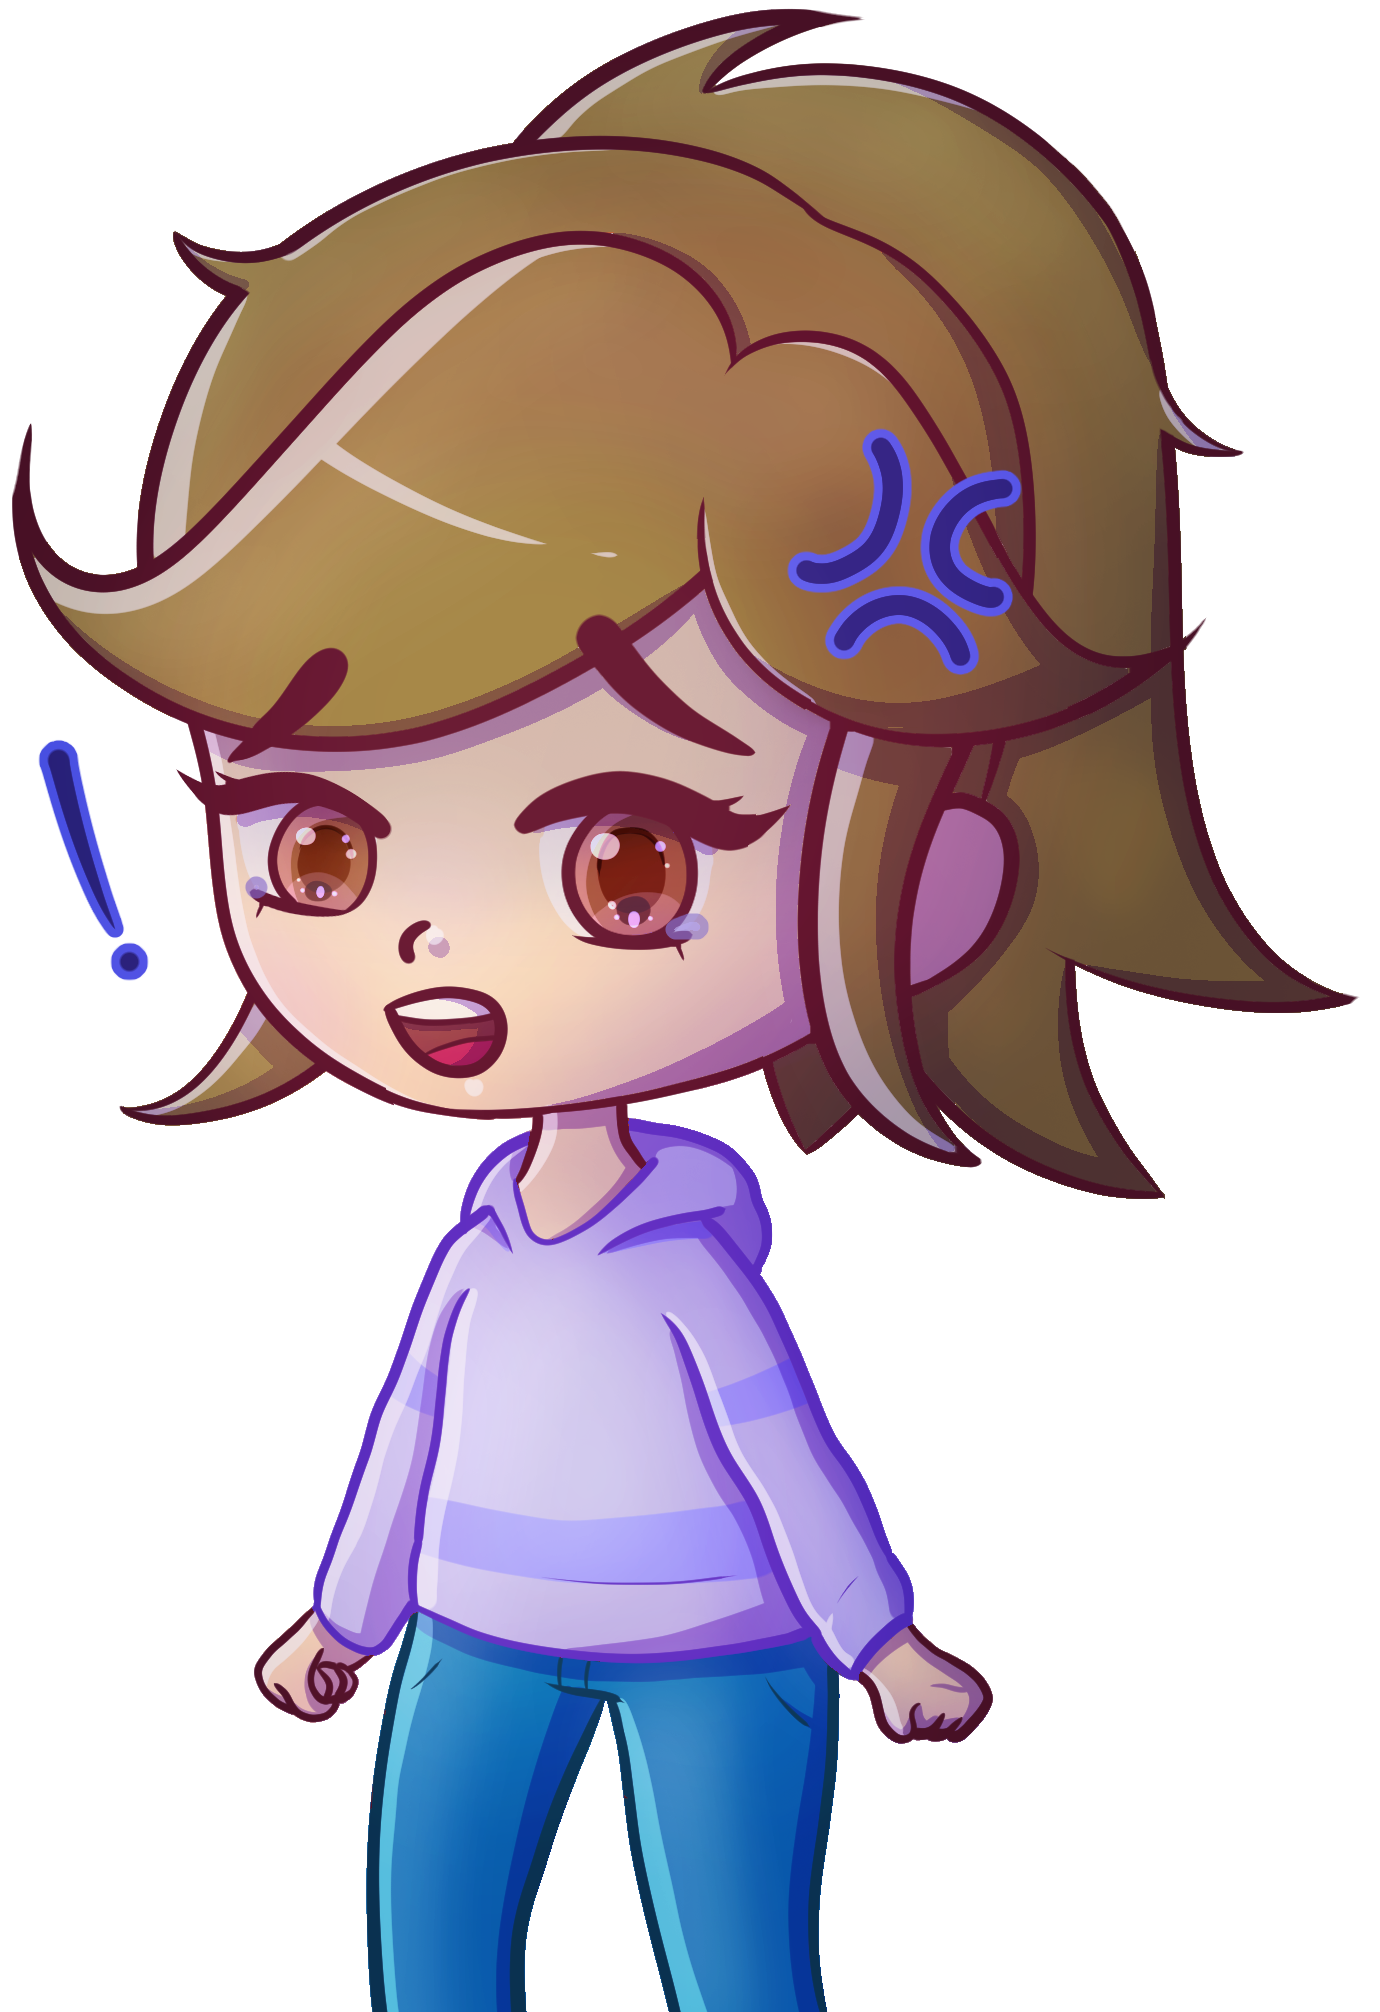
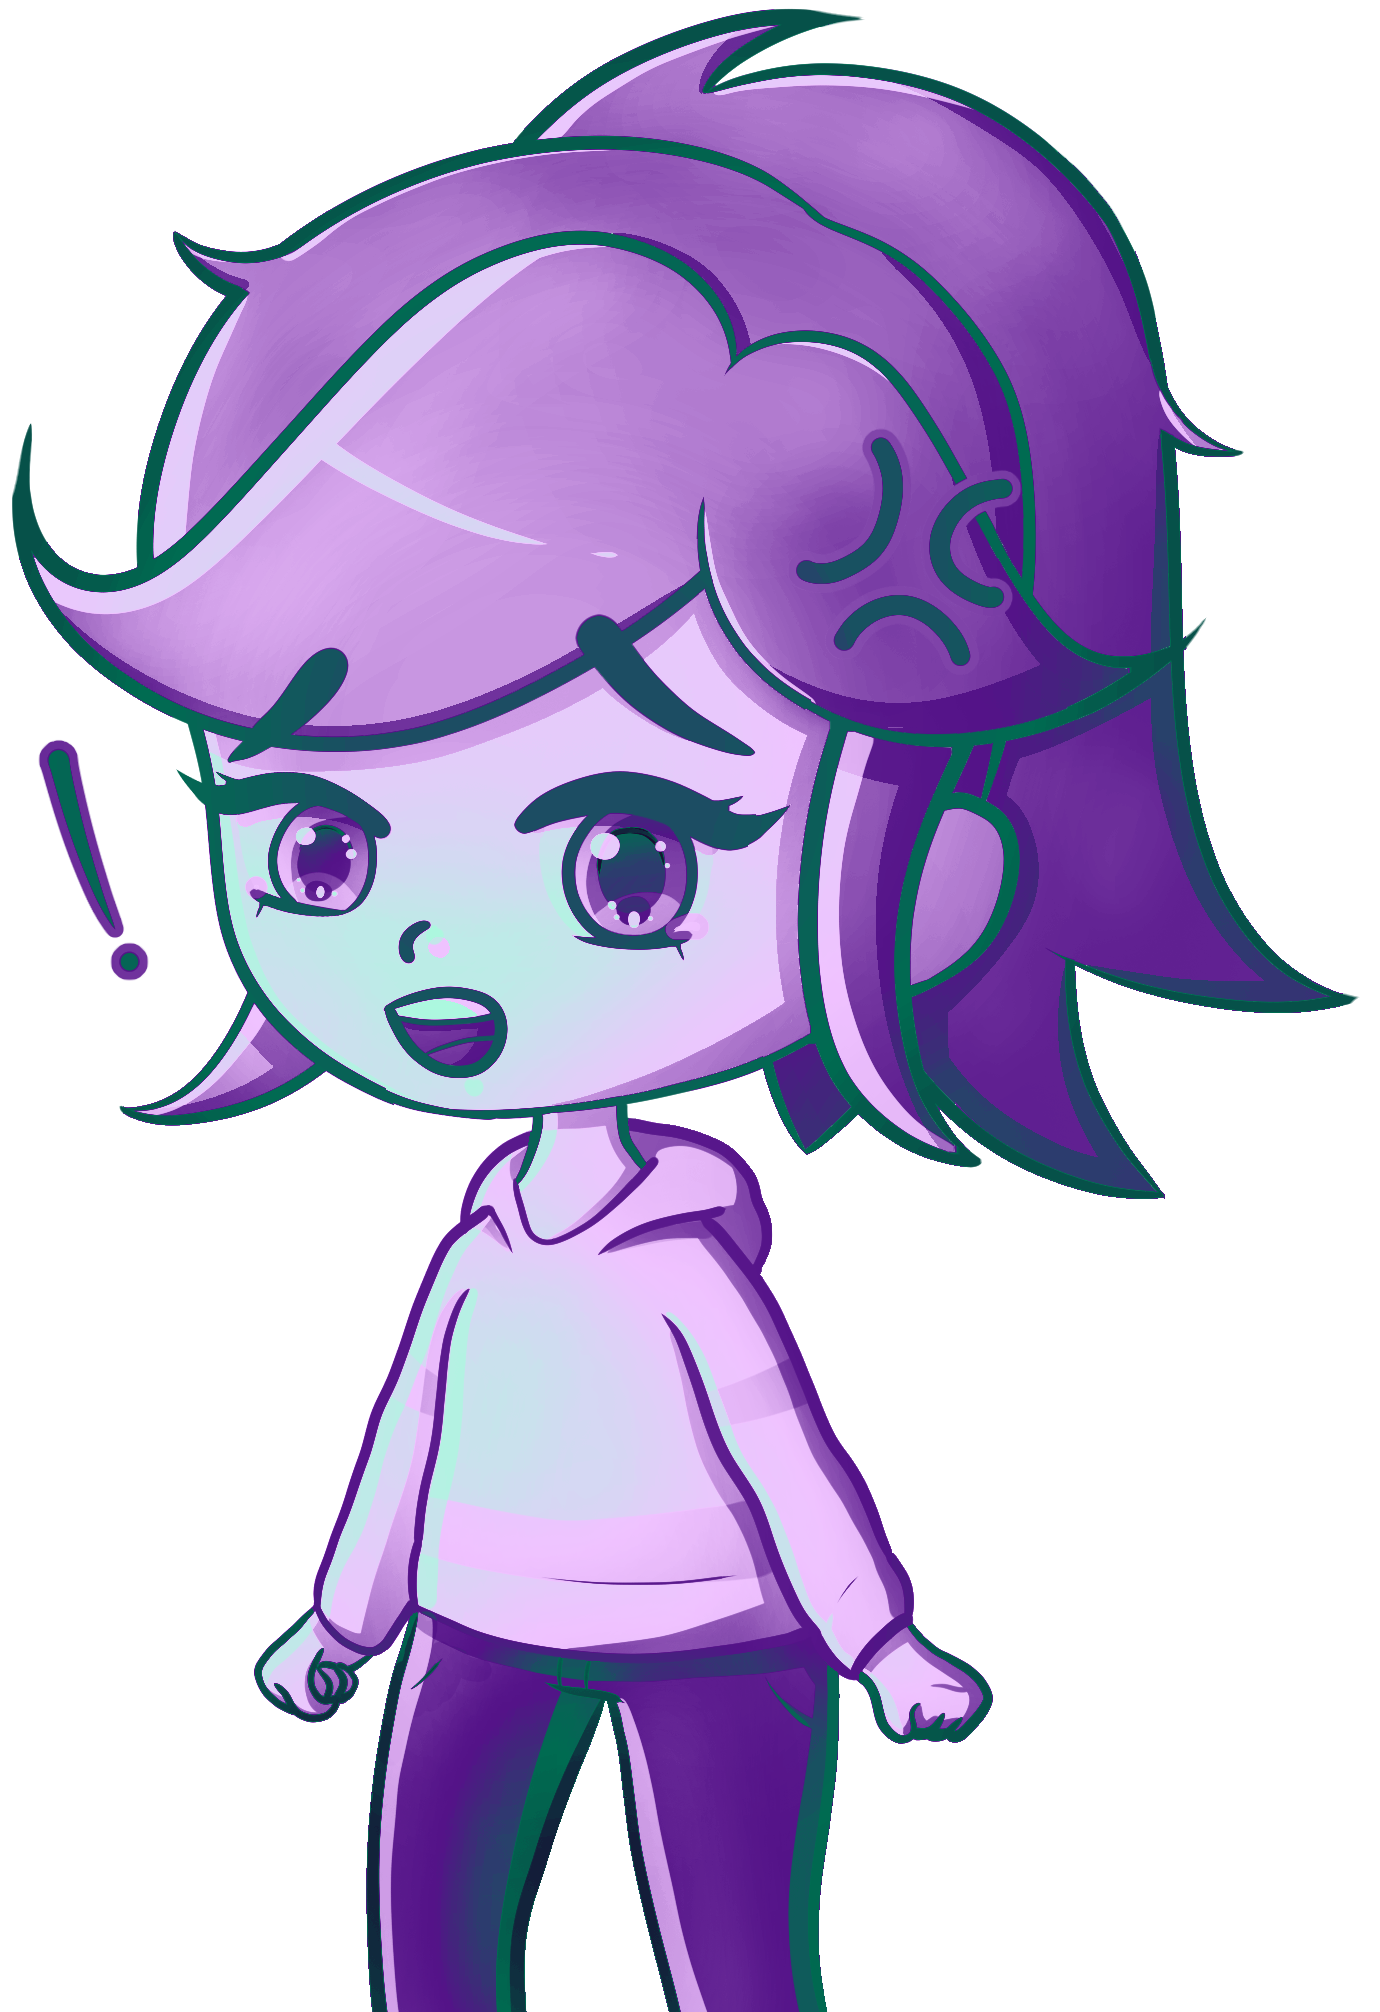
upd2

diff --git a/assets/js/main.js b/assets/js/main.js
@@ -79,12 +79,14 @@ function toggleTheme() {
   if (theme.getAttribute('href') == 'assets/css/style.css') {
       theme.setAttribute('href', 'assets/css/dark-style.css');
       opvideo.setAttribute('src', 'assets/video/dark-opening.mp4');
-      video.setAttribute('src', 'assets/video/dark-iddle.mp4');
+      // video.setAttribute('src', 'assets/video/dark-iddle.mp4');
+      video.setAttribute('src', 'assets/img/ocs-d.png');
       logo.setAttribute('src', 'assets/img/titre_dark.png');
   } else {
       theme.setAttribute('href', 'assets/css/style.css');
       opvideo.setAttribute('src', 'assets/video/light-opening.mp4');
-      video.setAttribute('src', 'assets/video/light-iddle.mp4');
+      //video.setAttribute('src', 'assets/video/light-iddle.mp4');
+      video.setAttribute('src', 'assets/img/ocs.png');
       logo.setAttribute('src', 'assets/img/titre_.png');
   }
 
@@ -111,12 +113,12 @@ document.addEventListener("DOMContentLoaded", function() {
       if (savedTheme.includes("dark")) {
           theme.setAttribute('href', 'assets/css/dark-style.css');
           firstVideo.setAttribute('src', 'assets/video/dark-opening.mp4');
-          secondVideo.setAttribute('src', 'assets/video/dark-iddle.mp4');
+          secondVideo.setAttribute('src', 'assets/img/ocs-d.png');
           l_logo.setAttribute('src', 'assets/img/titre_dark.png');
       } else {
           theme.setAttribute('href', 'assets/css/style.css');
           firstVideo.setAttribute('src', 'assets/video/light-opening.mp4');
-          secondVideo.setAttribute('src', 'assets/video/light-iddle.mp4');
+          secondVideo.setAttribute('src', 'assets/img/ocs.png');
           l_logo.setAttribute('src', 'assets/img/titre_.png');
       }
   } else {
@@ -125,12 +127,12 @@ document.addEventListener("DOMContentLoaded", function() {
       if (isDarkMode) {
           theme.setAttribute('href', 'assets/css/dark-style.css');
           firstVideo.setAttribute('src', 'assets/video/dark-opening.mp4');
-          secondVideo.setAttribute('src', 'assets/video/dark-iddle.mp4');
+          secondVideo.setAttribute('src', 'assets/img/ocs-d.png');
           l_logo.setAttribute('src', 'assets/img/titre_dark.png');
       } else {
           theme.setAttribute('href', 'assets/css/style.css');
           firstVideo.setAttribute('src', 'assets/video/light-opening.mp4');
-          secondVideo.setAttribute('src', 'assets/video/light-iddle.mp4');
+          secondVideo.setAttribute('src', 'assets/img/ocs.png');
           l_logo.setAttribute('src', 'assets/img/titre_.png');
       }
   }
@@ -150,6 +152,9 @@ document.addEventListener("DOMContentLoaded", function() {
   // Masquer le loader avec une transition en douceur
   loader.style.opacity = "1";
   loader.style.transition = "opacity 0.5s ease";
+
+  secondVideo.style.opacity = "1";
+  secondVideo.style.transition = "opacity 0.5s ease";
 
   firstVideo.pause(); // S'assurer que la première vidéo est mise en pause au départ
 

diff --git a/assets/css/dark-style.css b/assets/css/dark-style.css
@@ -184,23 +184,15 @@ header video {
 }
 
 /* Positionnement du logo au quart de la largeur de l'écran */
-#logo {
-  position: absolute;
-  top: 50%; /* Centrer verticalement */
-  left: 25%; /* Positionner le logo à 25% de la largeur de l'écran */
-  transform: translateY(-50%); /* Centrer verticalement par rapport à son propre centre */
-  font-size: 2rem;
-  font-weight: bold;
-  color: var(--color-text);
-  z-index: 10;
-  opacity: 0; /* Le logo est caché au départ */
-  transition: opacity 1s ease; /* Ajout d'une transition pour le fondu */
-}
+  #logo, #second-video {
+    opacity: 0; /* Le logo est caché au départ */
+    transition: opacity 1s ease; /* Ajout d'une transition pour le fondu */
+  }
 
-/* Effet de fondu pour faire apparaître le logo */
-#logo.show {
-  opacity: 1; /* Afficher le logo en fondu */
-}
+  /* Effet de fondu pour faire apparaître le logo */
+  #logo.show, #second-video {
+    opacity: 1; /* Afficher le logo en fondu */
+  }
 
 /* Sections */
 section {

diff --git a/assets/css/style.css b/assets/css/style.css
@@ -174,13 +174,13 @@
   }
 
   /* Positionnement du logo au quart de la largeur de l'écran */
-  #logo {
+  #logo, #second-video {
     opacity: 0; /* Le logo est caché au départ */
     transition: opacity 1s ease; /* Ajout d'une transition pour le fondu */
   }
 
   /* Effet de fondu pour faire apparaître le logo */
-  #logo.show {
+  #logo.show, #second-video {
     opacity: 1; /* Afficher le logo en fondu */
   }
 
@@ -500,7 +500,7 @@
   /* ---------------------------------------- COMPETENCES + SKILLS ------------------------------------------------------------------------------- */
 
   #competences {
-    background: linear-gradient(180deg, var(--color-secondary) 0%, var(--color-secondary) 30%, #FFFCEE 100%);
+    background: linear-gradient(180deg, var(--color-secondary) 0%, var(--color-secondary) 30%, var(--color-background) 100%);
     display: flex;
     justify-content: center;
     align-items: center;

diff --git a/index.html b/index.html
@@ -66,10 +66,13 @@
         Votre navigateur ne supporte pas la vidéo HTML5.
       </video>
   
-      <video id="second-video" autoplay muted loop style="display: none;">
+      <!-- <video id="second-video" autoplay muted loop style="display: none;">
         <source src="assets/video/light-iddle.mp4" type="video/mp4">
         Votre navigateur ne supporte pas la vidéo HTML5.
-      </video>
+      </video> -->
+
+      <img id="second-video" src="assets/img/ocs-d.png">
+
 
       <div id="logo" style="position: absolute;top: 50%;left: 10px;transform: translateY(-50%);font-size: 2rem;font-weight: bold;z-index: 10;text-align: left;">
       <img src="assets/img/titre_.png" id="light-logo" style="width: 50%;" alt="Portfolio Astélie HENRYON"/>
